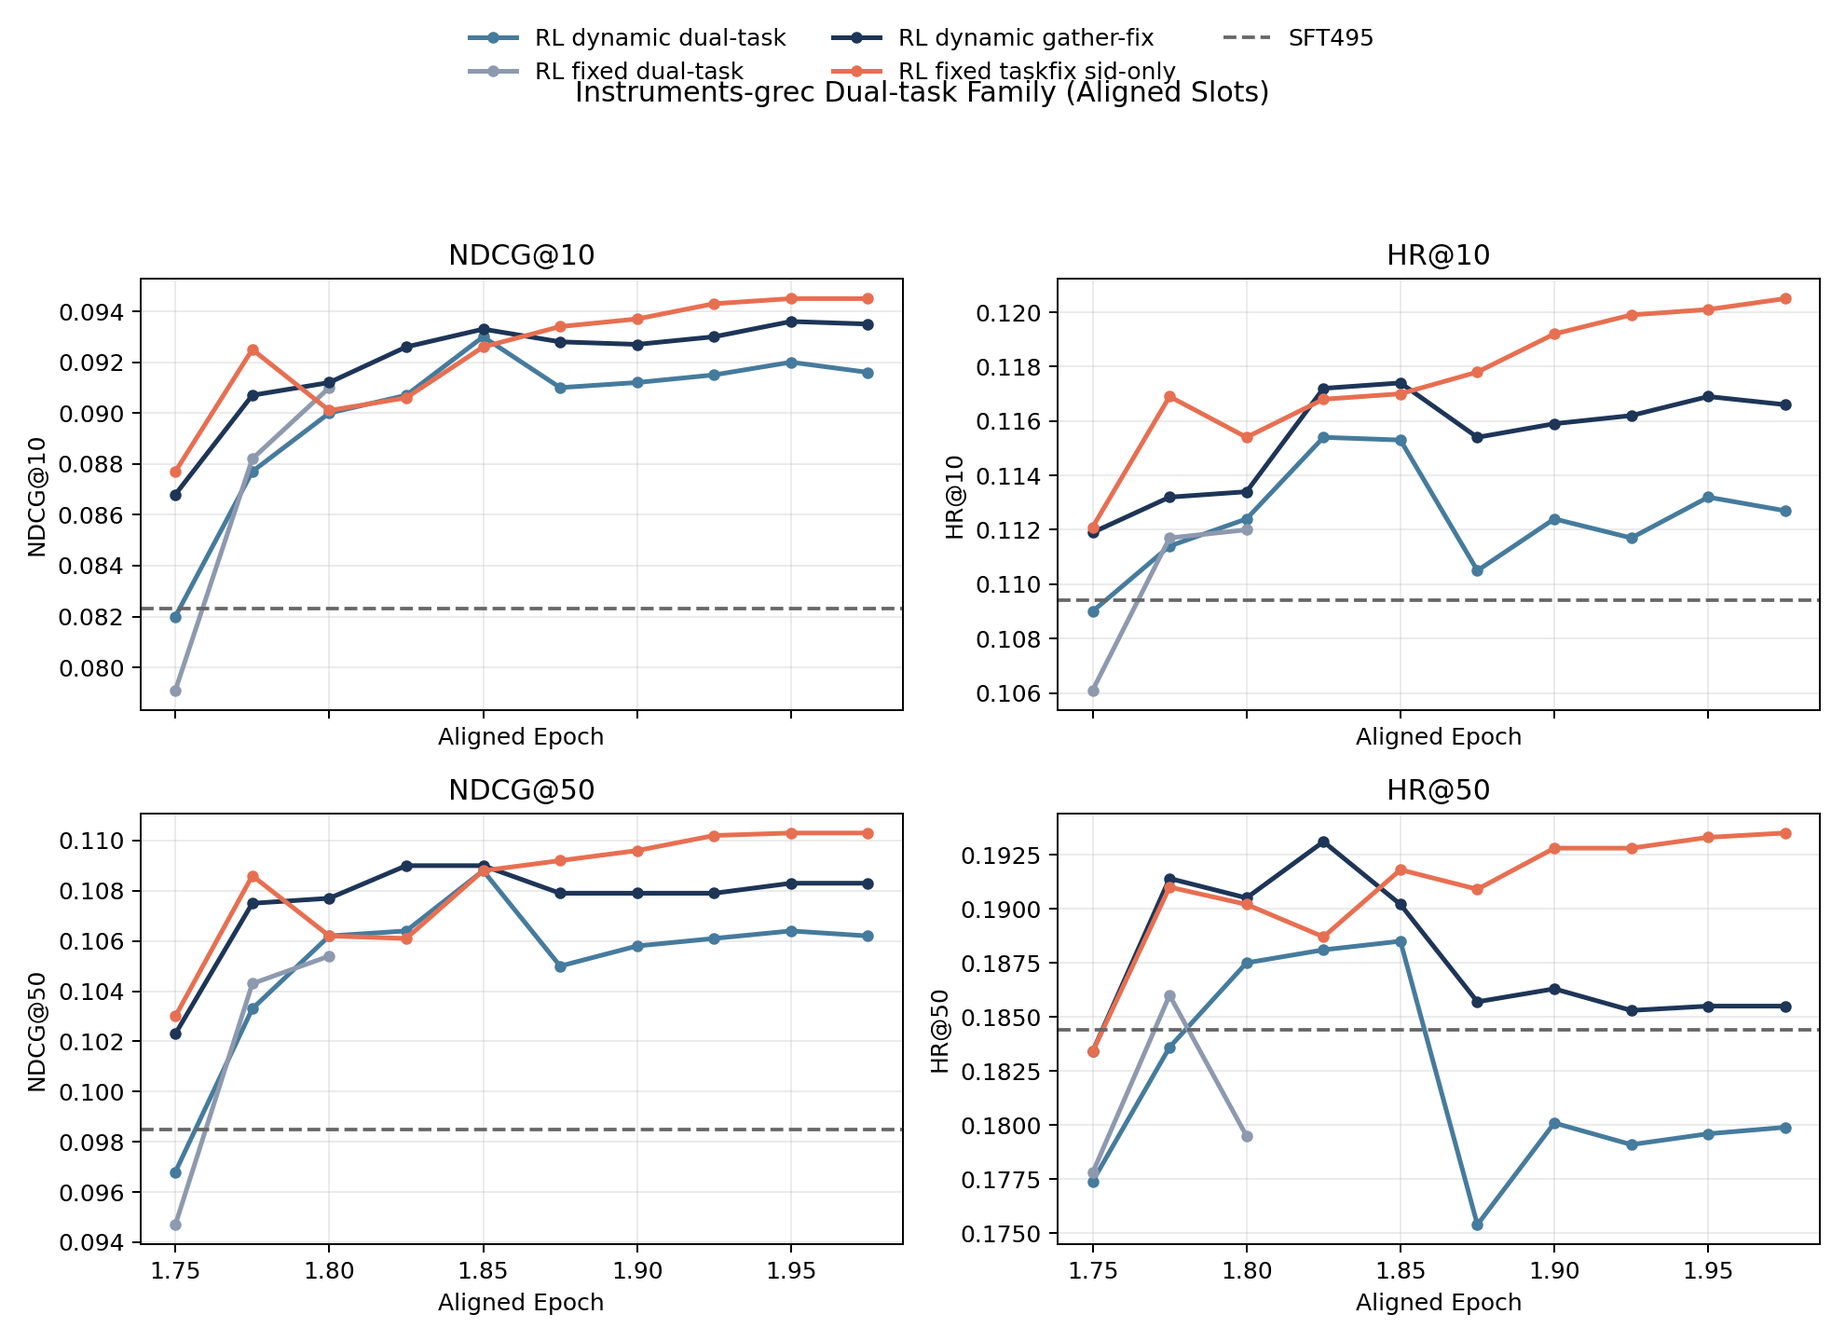
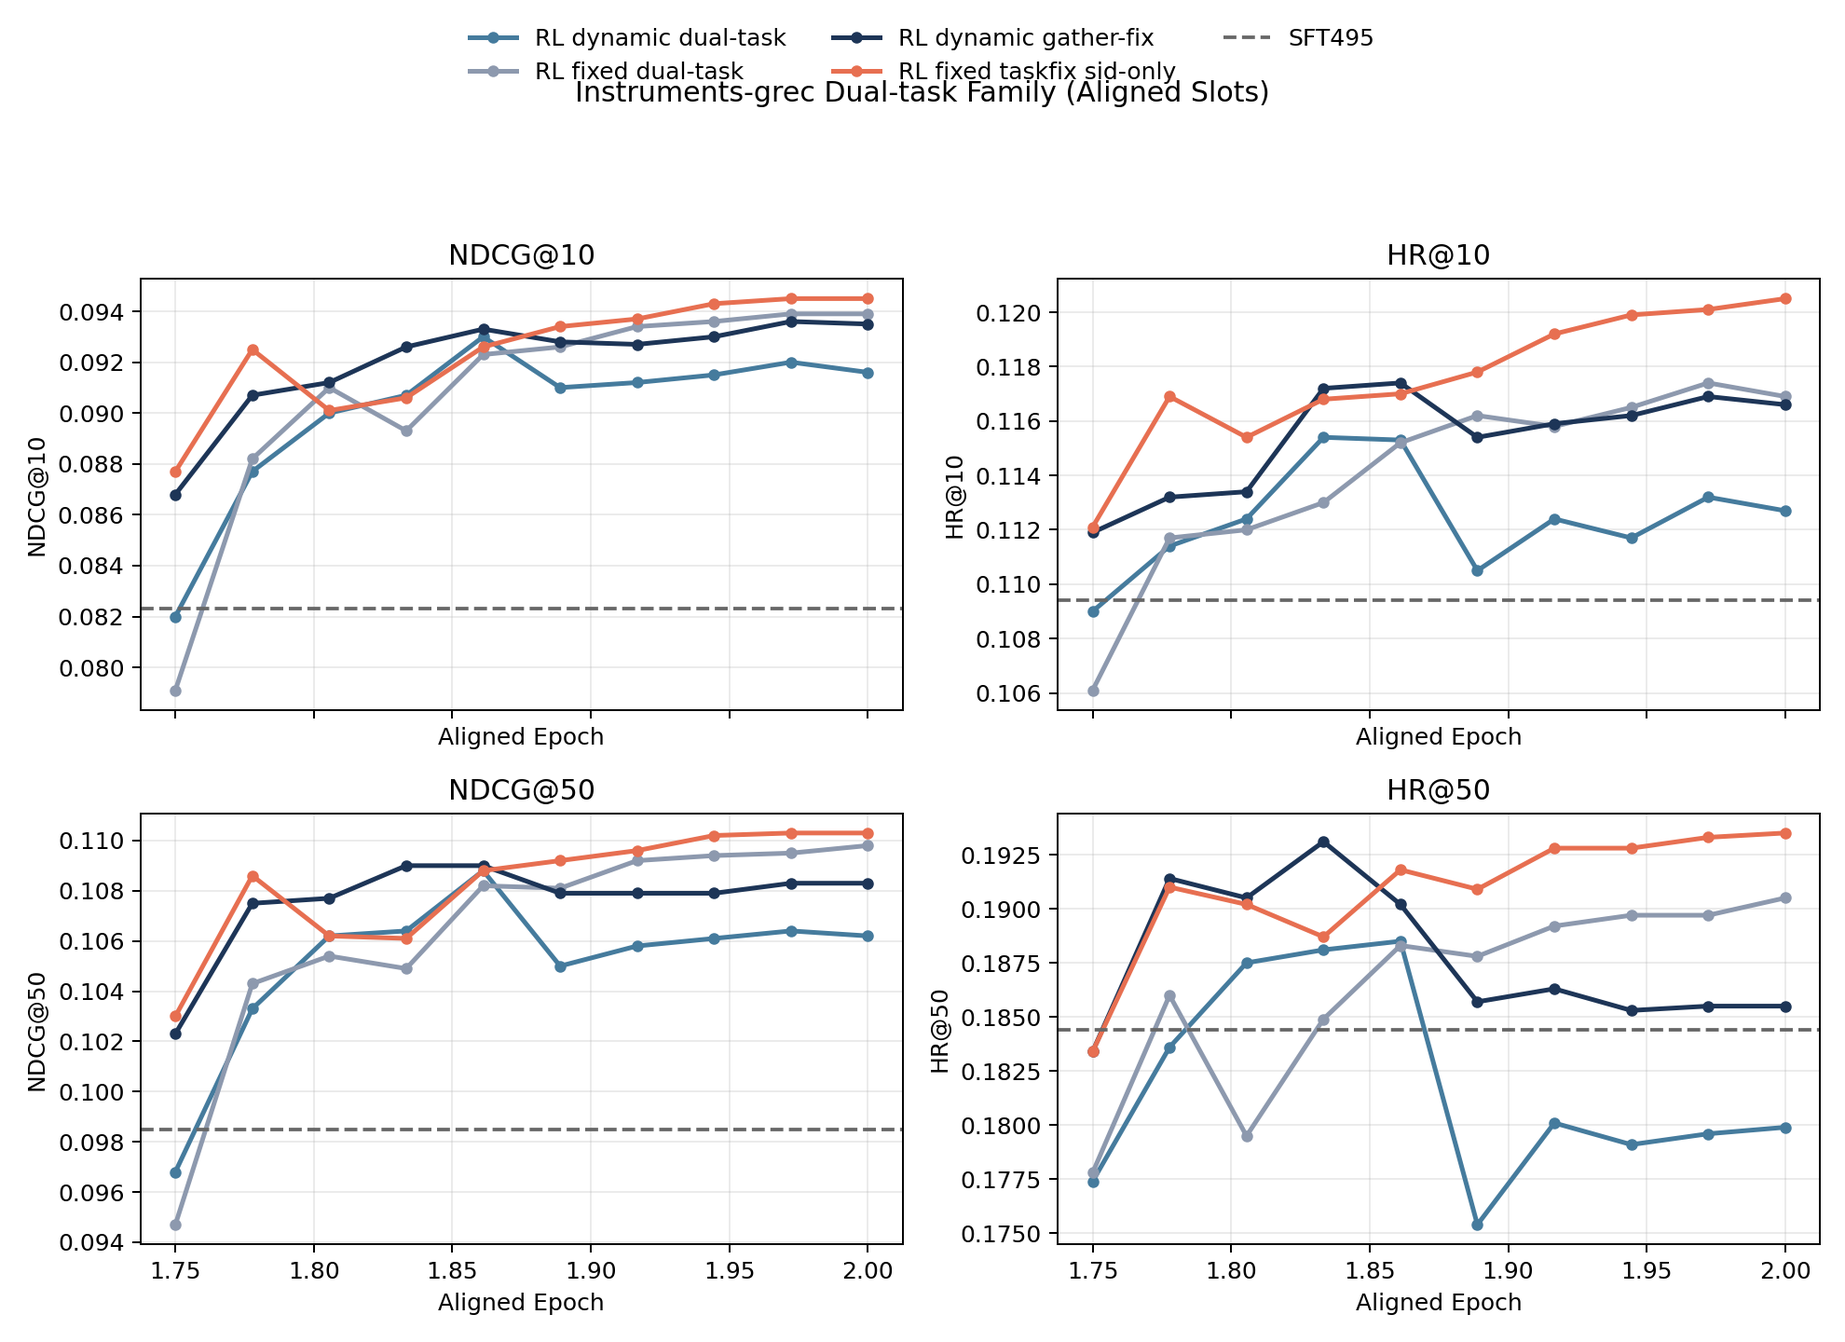
fix(reporting): refresh dual-task tracking assets

diff --git a/tests/test_generate_instruments_dual_task_single_hint_assets.py b/tests/test_generate_instruments_dual_task_single_hint_assets.py
@@ -101,7 +101,7 @@ class GenerateInstrumentsDualTaskSingleHintAssetsTests(unittest.TestCase):
             self.assertEqual(fixed_dual_last["max_step"], 906)
             self.assertAlmostEqual(fixed_dual_last["epoch_progress"], 604 / 906 * 2.0, places=6)
 
-    def test_late_alignment_uses_generated_prefix_and_keeps_final_slot_pending(self):
+    def test_late_alignment_uses_generated_prefix_and_keeps_final_slot_pending_when_reference_is_shorter(self):
         module = _load_module()
 
         rows = []
@@ -161,6 +161,7 @@ class GenerateInstrumentsDualTaskSingleHintAssetsTests(unittest.TestCase):
         self.assertEqual(dynamic_dual_df["step"].tolist(), [302, 604, 906, 1208, 1510, 1812, 2114, 2416, 2718])
         self.assertAlmostEqual(dynamic_dual_df.iloc[0]["aligned_epoch"], 1.75, places=6)
         self.assertAlmostEqual(dynamic_dual_df.iloc[-1]["aligned_epoch"], 1.9722222222222223, places=6)
+        self.assertTrue(dynamic_dual_df["aligned_pending_final_slot"].all())
 
         single_hint_df = aligned_df[aligned_df["variant_key"] == "single_hint_mixed"].sort_values("aligned_epoch")
         self.assertEqual(len(single_hint_df), 9)
@@ -173,6 +174,44 @@ class GenerateInstrumentsDualTaskSingleHintAssetsTests(unittest.TestCase):
         self.assertEqual(fixed_dual_df["step"].tolist(), [302, 604, 906])
         self.assertAlmostEqual(fixed_dual_df.iloc[0]["aligned_epoch"], 1.75, places=6)
         self.assertAlmostEqual(fixed_dual_df.iloc[-1]["aligned_epoch"], 1.8055555555555556, places=6)
+
+    def test_late_alignment_reaches_two_when_reference_matches_full_point_count(self):
+        module = _load_module()
+
+        rows = []
+
+        def add_variant_rows(variant_key: str, steps: list[int], max_step: int) -> None:
+            for step in steps:
+                rows.append(
+                    {
+                        "variant_key": variant_key,
+                        "variant_label": variant_key,
+                        "model_dir": variant_key,
+                        "checkpoint": f"checkpoint-{step}",
+                        "step": step,
+                        "max_step": max_step,
+                        "observed_max_step": max_step,
+                        "epoch_progress": step / max_step * 2.0,
+                        "color": "#000000",
+                        "NDCG@10": 0.09,
+                        "HR@10": 0.11,
+                        "NDCG@50": 0.107,
+                        "HR@50": 0.19,
+                        "NDCG@5": 0.084,
+                        "HR@5": 0.096,
+                    }
+                )
+
+        full_steps = [302, 604, 906, 1208, 1510, 1812, 2114, 2416, 2718, 3012]
+        add_variant_rows("dynamic_dual_task", full_steps, 3012)
+        add_variant_rows("fixed_dual_task", full_steps, 3012)
+
+        aligned_df = module.build_late_aligned_dataframe(pd.DataFrame(rows))
+        dynamic_dual_df = aligned_df[aligned_df["variant_key"] == "dynamic_dual_task"].sort_values("aligned_epoch")
+
+        self.assertFalse(dynamic_dual_df["aligned_pending_final_slot"].any())
+        self.assertAlmostEqual(dynamic_dual_df.iloc[0]["aligned_epoch"], 1.75, places=6)
+        self.assertAlmostEqual(dynamic_dual_df.iloc[-1]["aligned_epoch"], 2.0, places=6)
 
     def test_family_variant_groups_match_expected(self):
         module = _load_module()

diff --git a/scripts/reporting/generate_instruments_dual_task_single_hint_assets.py b/scripts/reporting/generate_instruments_dual_task_single_hint_assets.py
@@ -104,7 +104,6 @@ DUAL_TASK_ALIGNED_KEYS = ["dynamic_dual_task", "fixed_dual_task", "dynamic_gathe
 LATE_ALIGNMENT_REFERENCE_KEY = "dynamic_dual_task"
 LATE_ALIGNMENT_EPOCH_START = 1.75
 LATE_ALIGNMENT_EPOCH_END = 2.0
-LATE_ALIGNMENT_PENDING_FINAL_SLOT = True
 
 
 def _variant_map() -> dict[str, dict[str, object]]:
@@ -205,7 +204,9 @@ def build_late_aligned_dataframe(
         raise ValueError(f"Missing reference variant for late alignment: {reference_key}")
 
     point_count = len(reference_df)
-    alignment_slot_count = point_count + 1 if LATE_ALIGNMENT_PENDING_FINAL_SLOT else point_count
+    max_point_count = int(df.groupby("variant_key").size().max())
+    pending_final_slot = point_count < max_point_count
+    alignment_slot_count = point_count + 1 if pending_final_slot else point_count
     aligned_epochs = _build_epoch_grid(alignment_slot_count, epoch_start, epoch_end)[:point_count]
     rows: list[dict[str, object]] = []
 
@@ -221,6 +222,7 @@ def build_late_aligned_dataframe(
             out_row["aligned_tail_index"] = idx
             out_row["aligned_tail_point_count"] = len(variant_df)
             out_row["aligned_reference_key"] = reference_key
+            out_row["aligned_pending_final_slot"] = pending_final_slot
             rows.append(out_row)
 
     return pd.DataFrame(rows)

diff --git a/docs/2026-04-19-instruments-dual-task-single-hint-tracking.md b/docs/2026-04-19-instruments-dual-task-single-hint-tracking.md
@@ -1,9 +1,9 @@
 # 2026-04-19 Instruments 双任务过滤 / 单任务 Hint 训练跟踪
 
 - 记录日期：2026-04-19
-- 最后更新：2026-04-20
+- 最后更新：2026-04-21
 - 目标：把这轮 `Instruments-grec` 新开的两种训练 setting 记成一份可持续续写的 tracking note，并对齐当前本地 `results/` 同步状态。
-- 当前状态：`bash scripts/sync_results_from_remote.sh unpack` 已在本地完成；当前本地 `results/` 快照里，`single-hint mixed` 已同步到完整 `checkpoint-3326`，`dynamic dual-task` 已同步到 `10` 个 checkpoint（`checkpoint-302` 到 `checkpoint-3012`），`fixed dual-task` 已同步到 `checkpoint-302/604/906`，新增 `hintce-3` 已同步到 `checkpoint-333/666`。
+- 当前状态：`bash scripts/sync_results_from_remote.sh unpack` 已在本地完成；当前本地 `results/` 快照里，`single-hint mixed` 已同步到完整 `checkpoint-3326`，`dynamic dual-task` 已同步到完整 `10` 个 checkpoint（`checkpoint-302` 到 `checkpoint-3012`），`fixed dual-task` 也已同步到完整 `10` 个 checkpoint（`checkpoint-302` 到 `checkpoint-3012`），`hintce-3` 已同步到 `checkpoint-333` 到 `checkpoint-2997` 的 `9` 个 checkpoint。
 
 ## 1. 这次在跟踪哪两种 setting
 
@@ -142,8 +142,8 @@
 
 - `dynamic dual-task` 已有 `checkpoint-302/604/906/1208/1510/1812/2114/2416/2718/3012` 这 `10` 个 checkpoint
 - `dynamic dual-task` 的 raw full-trace 口径现在按当前同步到的 `3012 step = 2 epoch` 去算，所以它的 `epoch_progress` 是 `0.201 -> 2.000`；best 点仍在 `checkpoint-1510 / epoch≈1.003 / NDCG@10=0.0930 / HR@50=0.1885`
-- `fixed dual-task` 现在已经开始同步到 `checkpoint-302/604/906`；资产脚本里用当前 dual-task family 的共享步数口径去算，它对应 `epoch≈0.201/0.401/0.602`
-- 如果要做共同 generated-slot 对比，则看 `late_epoch_aligned_*` 和新增的 dual-task aligned 图：当前按 `dynamic dual-task` 的 `10` 个已生成 slot 对齐到 `aligned_epoch=1.75 -> 1.975`，checkpoint 不要求对齐
+- `fixed dual-task` 现在也已经补成完整 `10` 个 checkpoint；raw full-trace best 在 `checkpoint-2718 / epoch≈1.805 / NDCG@10=0.0939 / HR@50=0.1897`，而 peak coverage 在 `checkpoint-3012 / epoch=2.0 / HR@50=0.1905`
+- 如果要做共同 generated-slot 对比，则看 `late_epoch_aligned_*` 和新增的 dual-task aligned 图：现在按 `dynamic dual-task` 的完整 `10` 个 slot 直接对齐到 `aligned_epoch=1.75 -> 2.0`，checkpoint 不要求对齐
 - 后续仍然可以把两条线并列跟踪，不用再改主 note 结构
 
 ### 3.3 Derived comparison assets
@@ -226,14 +226,14 @@
 
 - 把 `dynamic dual-task` 现有 `10` 个 checkpoint 当作锚点数。
 - 各条线都只取与这 `10` 个已生成 slot 对应的前缀点；如果最后一个 terminal slot 还没生成，就不把它硬塞进来。
-- 再把这 `10` 个点统一映射到 `aligned_epoch=1.75 -> 1.975`。
-- 所以这里是 epoch 对齐，但 checkpoint 不要求对齐；同时不会把一个还没生成的最后点硬映成 `2.0`。
+- 再把这 `10` 个点统一映射到 `aligned_epoch=1.75 -> 2.0`。
+- 所以这里是 epoch 对齐，但 checkpoint 不要求对齐；这一轮因为 reference 线已经补齐，所以不再保留 pending final slot。
 
 按这套 aligned 资产去读：
 
-- `dynamic dual-task` 在共同 aligned 轴上的 best 点仍是 `checkpoint-1510 @ aligned_epoch=1.85`。
-- `single-hint mixed` 在这套轴上的 best 点是 `checkpoint-2664 @ aligned_epoch=1.925`；当前 aligned 资产现在已经可以合法吃到 `checkpoint-3326`，它对应 `aligned_epoch=1.975`。
-- 这样看最大的好处是：`dynamic dual-task` 不会再因为别的 run 的总 ckpt 更长，而在 late-window 视角里被直接裁掉；同时也不会把“还没生成的最后一个点”假装成已经对齐好的 `2.0`。
+- `dynamic dual-task` 在共同 aligned 轴上的 best 点仍是 `checkpoint-1510 @ aligned_epoch=1.8611`。
+- `single-hint mixed` 在这套轴上的 best 点是 `checkpoint-2664 @ aligned_epoch=1.9444`；完整尾点 `checkpoint-3326` 现在对应 `aligned_epoch=2.0`。
+- 这样看最大的好处是：`dynamic dual-task`、`fixed dual-task` 和 `single-hint mixed` 现在都能在完整 late window 上直接同轴比较，不需要再人为留一个末端空位。
 
 ### 4.4 Fixed Family
 
@@ -264,20 +264,19 @@
 
 ![HintCE scaling curves](assets/2026-04-19-instruments-dual-task-single-hint-tracking/hintce_scaling_epoch_curves.png)
 
-当前这条线还只有两个 early checkpoints：
+当前这条线已经从 early 两点补成了中后段轨迹：
 
 | Variant | Synced checkpoints | Best checkpoint | Best epoch | NDCG@10 | HR@50 |
 | --- | --- | --- | ---: | ---: | ---: |
 | `fixed taskfix` | `333..3326` | `checkpoint-2997` | `1.802` | `0.0931` | `0.1941` |
 | `hintce-2` | `333..3326` | `checkpoint-2664` | `1.602` | `0.0931` | `0.1951` |
-| `hintce-3` | `333, 666` | `checkpoint-666` | `0.400` | `0.0898` | `0.1924` |
+| `hintce-3` | `333..2997` | `checkpoint-1665` | `1.001` | `0.0945` | `0.1985` |
 
 这张图现在最有用的读法是：
 
-- `hintce-3` 在 `checkpoint-333` 的 coverage 起点不差，`HR@50=0.1870`，高于 `fixed taskfix` 的 `0.1855`，也略高于 `hintce-2` 的 `0.1862`。
-- 到 `checkpoint-666`，`hintce-3` 的 `NDCG@10=0.0898`，比 `hintce-2` 的 `0.0901` 还低 `0.0003`；`HR@50=0.1924` 虽然高于 `hintce-2` 的 `0.1917`，但仍低于 plain `fixed taskfix` 在同点的 `0.1962`。
-- 所以当前更合理的说法不是“`0.005` 的倍率已经赢了”，而是：
-  它现在还只是一个 early readout，暂时没看到能替代 `hintce-2` 的证据。
+- `hintce-3` 现在已经不是“只有两个 early readout”的状态；它在 `checkpoint-999` 就把 `HR@50` 推到 `0.1979`，到 `checkpoint-1665` 拿到 `NDCG@10=0.0945 / HR@50=0.1985`。
+- 这意味着它已经明显强过 `hintce-2` 和 plain `fixed taskfix`：相对 `hintce-2` 的当前 best 点，多 `+0.0014` `NDCG@10`、多 `+0.0034` `HR@50`；相对 plain `fixed taskfix` 的 best 点，多 `+0.0014` `NDCG@10`、多 `+0.0044` `HR@50`。
+- 但它的现象更像“中段强峰值”而不是完整尾段定型：到 `checkpoint-2997` 时仍有 `NDCG@10=0.0943 / HR@50=0.1961`，说明这条线现在至少已经进入主候选，但还需要最后一段 checkpoint 才能判断是不是稳态新上界。
 
 #### B. `fixed dual-task`：fixed hint 下只保留 `task1 + task5`
 
@@ -285,27 +284,27 @@
 
 ![Dual-task family aligned curves](assets/2026-04-19-instruments-dual-task-single-hint-tracking/dual_task_family_late_epoch_aligned_curves.png)
 
-当前 first-look 先按 generated-slot aligned 口径来读：
+当前已经不再是 very-early first look，而是可以按完整 aligned slot 去读：
 
 | Variant | Synced checkpoints | Best checkpoint | Aligned epoch | NDCG@10 | HR@50 |
 | --- | --- | --- | ---: | ---: | ---: |
-| `dynamic dual-task` | `302..3012` | `checkpoint-1510` | `1.850` | `0.0930` | `0.1885` |
-| `fixed dual-task` | `302, 604, 906` | `checkpoint-906` | `1.800` | `0.0910` | `0.1795` |
+| `dynamic dual-task` | `302..3012` | `checkpoint-1510` | `1.861` | `0.0930` | `0.1885` |
+| `fixed dual-task` | `302..3012` | `checkpoint-2718` | `1.972` | `0.0939` | `0.1897` |
 
 这张图当前最关键的读法是：
 
-- `fixed dual-task` 现在已经不再是“目录还没出现”的状态，而是已经有了前三个点，可以正式纳入跟踪。
-- 但它目前还只是 very-early first look：best 点在 `checkpoint-906 / aligned_epoch=1.800 / NDCG@10=0.0910 / HR@50=0.1795`。
-- 如果只看同一 aligned slot `checkpoint-906`，`fixed dual-task` 的 top-10 已经略高于 `dynamic dual-task` 同 slot 的 `0.0900`，但 coverage 明显更差：`HR@50 0.1795 vs 0.1875`。
-- 因此当前更合理的判断不是“fixed dual-task 已经定型”，而是：
-  它现在刚进入可比较状态，但还远没到可以和 `single-hint mixed` 或 clean fixed 主线抢结论的时候。
+- `fixed dual-task` 现在已经从“前三个点的 early look”变成一条完整可比轨迹：后半段持续爬升，到 `checkpoint-2718` 把 `NDCG@10` 推到 `0.0939`，尾点 `checkpoint-3012` 则把 `HR@50` 推到 `0.1905`。
+- 相对 `dynamic dual-task`，它现在已经不是简单的 top-10 / coverage 交换，而是整体略占优：best top-10 多 `+0.0009`，而尾段 peak coverage 也多 `+0.0020`。
+- 但它和 clean fixed 主线相比仍然还有明显差距：离 corrected `fixed taskfix sid-only` 还有 `~0.0006` `NDCG@10` 和 `~0.0030` `HR@50`，离 `single-hint mixed` 的 gap 更大。
+- 因此当前更合理的判断是：
+  `fixed dual-task` 已经可以视为“比 dynamic dual-task 更强的 dual-task 版本”，但还没有进入当前 fixed family 的最前排。
 
 ## 5. 下一步怎么续写
 
-- 下一次同步 result bundle 时，优先继续补 `fixed dual-task` 和 `hintce-3` 的后续 checkpoints，而不是只看当前 `302/604/906` 和 `333/666` 这几个早期点。
+- 下一次同步 result bundle 时，优先继续补 `hintce-3` 的最后一个 checkpoint，并确认 `fixed dual-task` 在 `3012` 之后是否还有新的 terminal readout。
 - 继续观察 `dynamic dual-task` 在 `checkpoint-3012` 之后是否还能把 best 点从 `1510` 左右重新往后推。
 - `single-hint mixed` 已经补到完整 `checkpoint-3326`；下一步不是继续等点，而是解释为什么它在 `2664 -> 3326` 之间维持高位平台但没有继续抬高 top-10。
-- 一旦 dual-task 线有结果，优先把它们和下面两条 reference 放在一起做 first-look：
+- dual-task 线现在已经进入可比阶段，后续优先把它们和下面两条 reference 持续并排看：
   - `dynamic gather-fix`
   - corrected `fixed taskfix sid-only`
 - 这条实验线后续继续写这篇文档，不再新建近重复 top-level note。

diff --git a/docs/progress.md b/docs/progress.md
@@ -1,6 +1,6 @@
 # GenRec 进度维护
 
-- 最后更新：2026-04-20
+- 最后更新：2026-04-21
 - 维护目的：用一个稳定文件追踪当前各数据集的实验阶段、已经跑过的线、试过的 idea，以及下一步。
 
 ## 1. 更新规则
@@ -106,7 +106,7 @@
 - `hintce-2` 的训练日志拆分已经补过一轮：
   当前 `weighted_hint_ce_loss` 大体稳定在 `~1e-3`，前期相对 `RL base` 略重，但主 spike 仍然主要由 `KL` 驱动，而不是 CE 本身。
 - 仓库现在已经支持一条 dual-task filtered setting：
-  `task1_sid_sft + task5_title_desc2sid` 参与 train，`task4_hisTitle2sid` 被移除，eval 仍只看 `task1_sid_sft`；dynamic / fixed 两个 launcher 都已落地，其中 `dynamic dual-task` 现在已经同步到 `10` 个 checkpoint（`checkpoint-302` 到 `checkpoint-3012`），而 `fixed dual-task` 也已经开始同步到 `checkpoint-302/604/906`。
+  `task1_sid_sft + task5_title_desc2sid` 参与 train，`task4_hisTitle2sid` 被移除，eval 仍只看 `task1_sid_sft`；dynamic / fixed 两个 launcher 都已落地，而且现在两条线都已经同步到 `10` 个 checkpoint（`checkpoint-302` 到 `checkpoint-3012`）。
 - mixed-task `single-hint` setting 已经补到中后段 checkpoint：
   训练仍保留三任务，但只对 `task1_sid_sft` 注入 fixed hint，`task4/task5` 强制 zero-hint；
   当前本地已同步到完整 `checkpoint-3326`，best readout 保持在
@@ -116,19 +116,19 @@
 - `dynamic dual-task` 现在更像一条“已经可比较、但还没赢 baseline”的完整首轮轨迹：
   raw full-trace best 点仍是 `checkpoint-1510 / epoch≈1.003 / NDCG@10=0.0930 / HR@50=0.1885`；
   最新同步到 `checkpoint-3012` 也还没有把它抬回 best window。
-- `fixed dual-task` 当前只是 first-look：
-  `checkpoint-302/604/906` 已同步，best 点是
-  `checkpoint-906 / NDCG@10=0.0910 / HR@50=0.1795`；
-  同一 aligned slot 下它的 top-10 略高于 dynamic dual-task 的 `checkpoint-906`，但 coverage 仍明显更弱。
-- `hintce-3` 当前只同步了 `checkpoint-333/666` 两个 early readout：
-  `checkpoint-666 / NDCG@10=0.0898 / HR@50=0.1924`；
-  目前还没看到能替代 `hintce-2` 的证据，更像一个需要继续补长的倍率试探。
+- `fixed dual-task` 现在已经从 first-look 变成完整轨迹：
+  best 点在 `checkpoint-2718 / NDCG@10=0.0939 / HR@50=0.1897`，而尾点 `checkpoint-3012` 把 `HR@50` 推到 `0.1905`；
+  它现在已经整体强于 `dynamic dual-task`，但离 clean fixed 主线仍有明显差距。
+- `hintce-3` 现在已经不再是 early readout：
+  当前 best 点在 `checkpoint-1665 / NDCG@10=0.0945 / HR@50=0.1985`；
+  它已经明显压过 `hintce-2` 和 plain `fixed taskfix`，因此从“倍率试探”升级成了需要认真对待的新主候选。
 
 ### 当前最值得继续做的事
 
 - 把 `UFT-style hint curriculum` 落到 corrected `fixed taskfix sid-only` 上。
 - 对 `hintce-2` 做更细的 task-level 和训练日志分析，确认为什么 balanced 优势出现在中后段而不是最终点。
-- 把 `fixed dual-task` 和 `hintce-3` 继续补到更多 checkpoints，再判断它们到底是 early noise 还是有稳定信号。
+- 优先补 `hintce-3` 的最后一个 checkpoint，并确认它在完整尾段能否维持当前 `0.0945 / 0.1985` 级别的优势。
+- 继续观察 `fixed dual-task` 在 `3012` 之后是否还有新的 terminal readout，并判断当前 `2718/3012` 的平台是不是它的稳态上限。
 - 继续观察 `dynamic dual-task` 能否从当前 `1510` 左右的 best 点往上推，还是 `3012` 之后仍然维持“中段最佳、尾段回落”的形态。
 - 解释 `single-hint mixed` 为什么在完整 `2.0` epoch 尾段维持高位平台，但没有超过 `checkpoint-2664` 的 top-10 峰值。
 - 对 `max1` 补回 train-time 日志和 diagnostics，尤其是 `selected_hint_depth_mean`、`selected_depth_1_frac`、`mean_length`。
